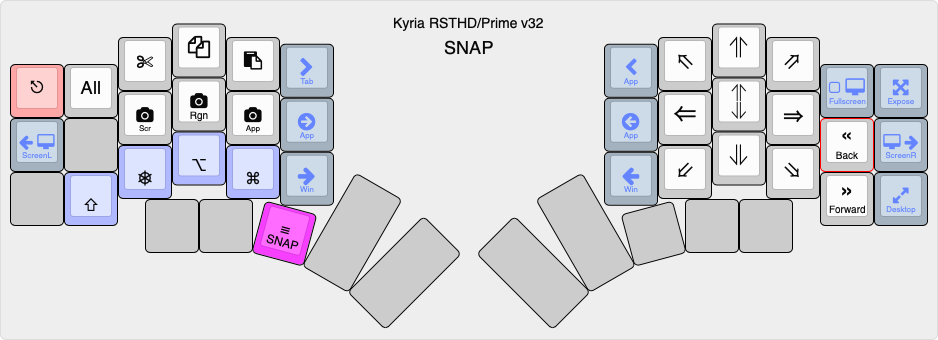
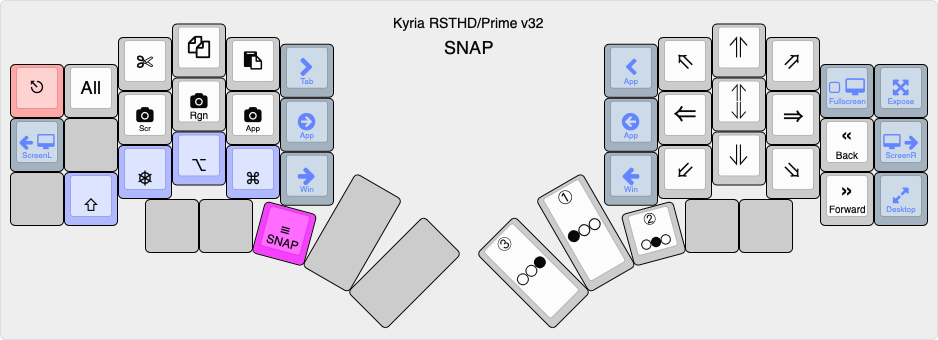
Updated description of SNAP layer

Changed region(s): [[0.4947, 0.5294, 0.742, 0.9412], [0.8966, 0.5, 0.9275, 0.5294], [0.8966, 0.3235, 0.9275, 0.3529]]

diff --git a/kyria-rsthd-prime/README.md b/kyria-rsthd-prime/README.md
@@ -107,6 +107,8 @@ Activated by the left thumb (hold).
 
 So called because of the keys for window snapping, which snap to one of the screen halves or quadrants. The center key sets the window to the full vertical height. This works on macOS if [Rectangle](https://rectangleapp.com) is running; Windows and Linux are still in development.
 
+Three mouse buttons are available on the right thumb.
+
 Select all, cut, copy and paste are chorded on the left hand top row, and keys to switch applications, windows and tabs on the inner column.
 
 ### FUNC
